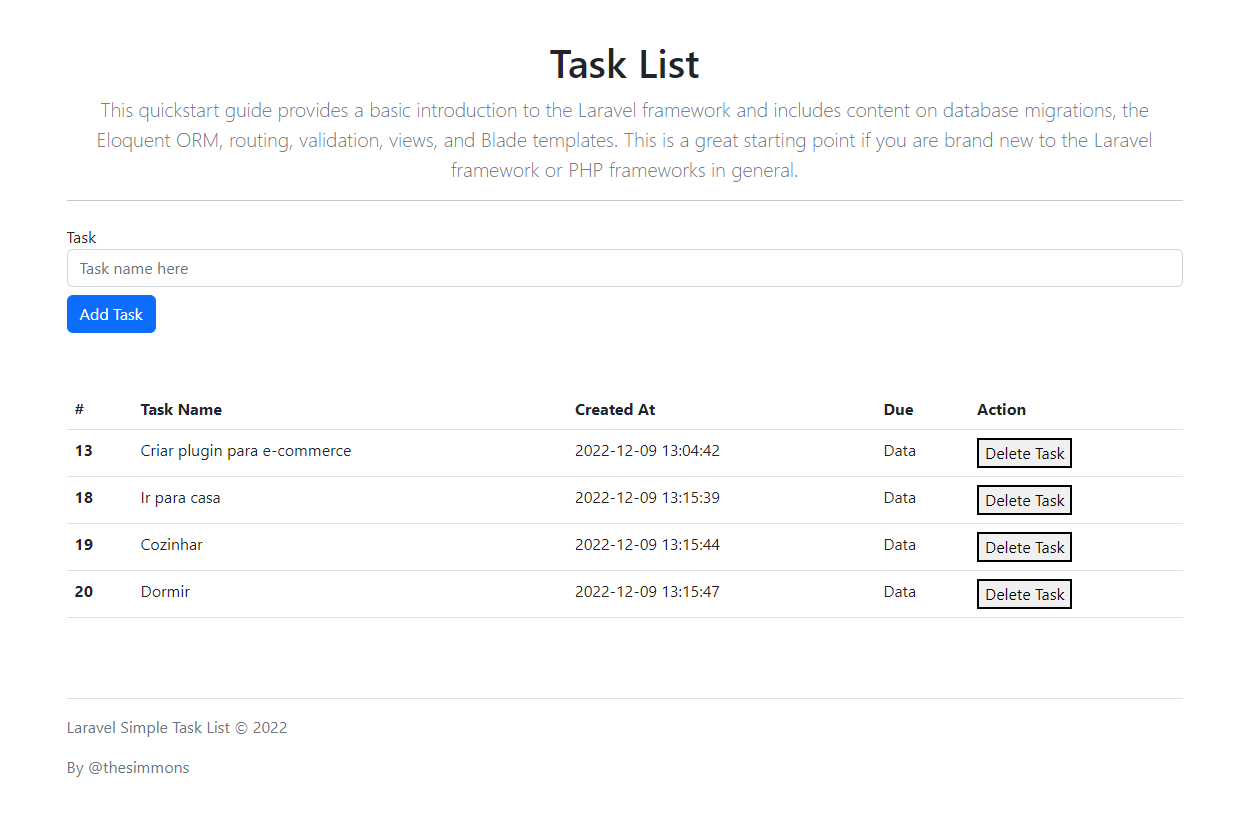
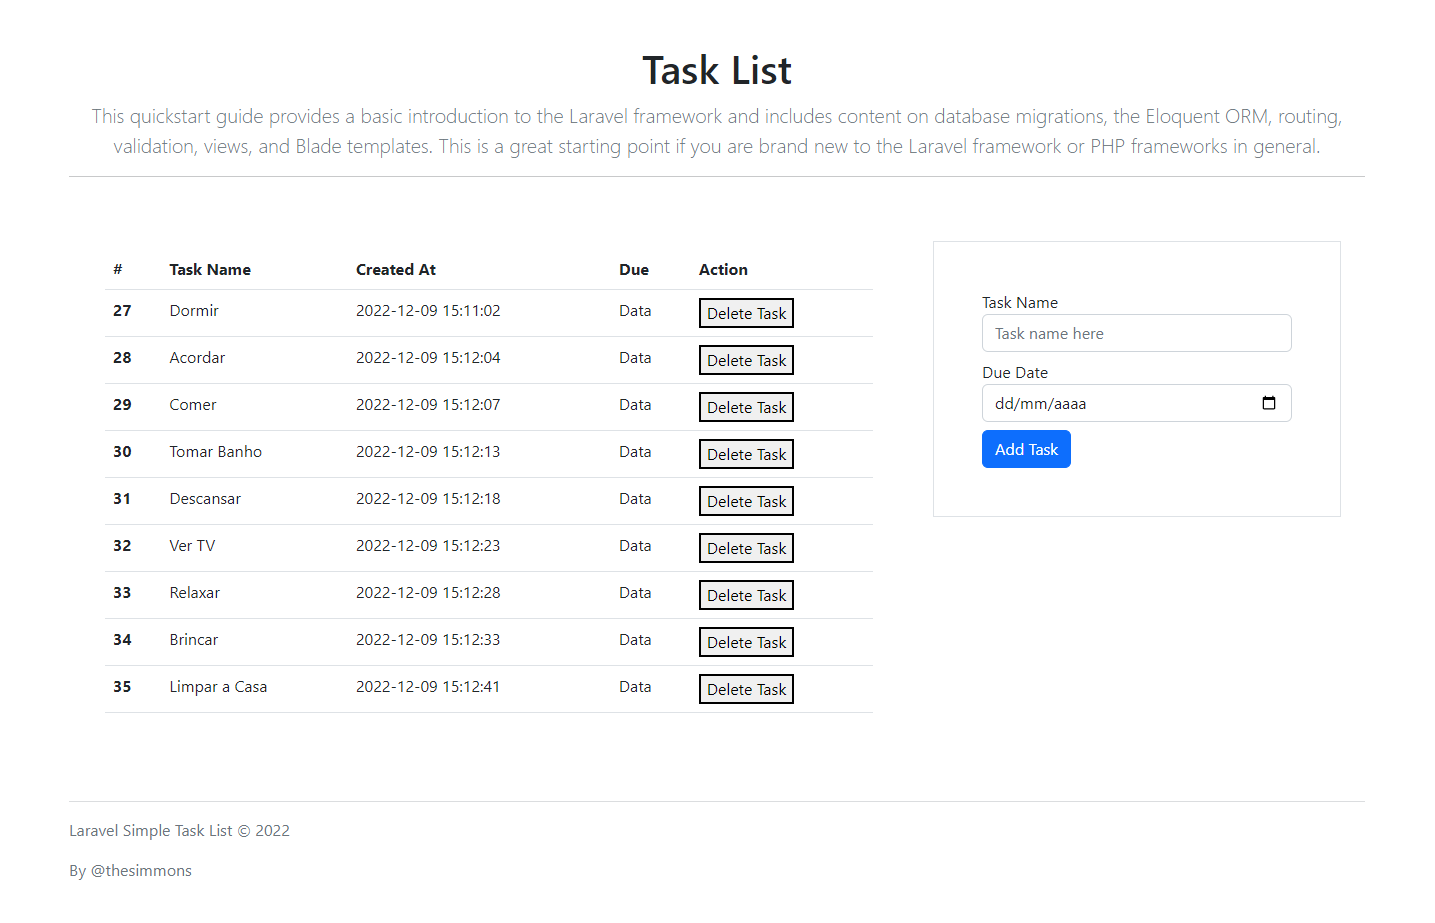
some updates to ui

diff --git a/resources/views/tasks.blade.php b/resources/views/tasks.blade.php
@@ -32,76 +32,92 @@
 
             </div>
 
-            <div class="py-2">
+            <div class="row">
+                <div class="py-2 col-md-8 px-md-5">
 
-                <!-- New Task Form -->
-                <form action="/task" method="POST" class="form-horizontal">
+                    <div class="py-5">
 
-                    {{ csrf_field() }}
+                        <!-- List Tasks -->
+                        @if (count($tasks) > 0)
+                            <table class="table">
+                                <thead>
+                                    <tr>
+                                        <th scope="col">#</th>
+                                        <th scope="col">Task Name</th>
+                                        <th scope="col">Created At</th>
+                                        <th scope="col">Due</th>
+                                        <th scope="col">Action</th>
+                                    </tr>
+                                </thead>
+                                <tbody>
 
-                    <!-- Task Name -->
+                                    @foreach ($tasks as $task)
+                                        <tr>
 
-                    <div class="form-group">
+                                            <th scope="row"> {{ $task->id }} </th>
+                                            <td>{{ $task->name }}</td>
+                                            <td>{{ $task->created_at }}</td>
+                                            <td> Data </td>
+                                            <td>
+                                                <form action="/task/{{ $task->id }}" method="post">
+                                                    {{ csrf_field() }}
+                                                    {{ method_field('DELETE') }}
+                                                    <!-- We can spoof a DELETE request -->
 
-                        <div class="form-group mb-2">
+                                                    <button>Delete Task</button>
+                                                </form>
+                                            </td>
+                                        </tr>
+                                    @endforeach
 
-                            <label for="task" class="sr-only">Task</label>
+                                </tbody>
+                            </table>
+                        @else
+                            <h4>No tasks yet! Create one first...</h4>
+                        @endif
 
-                            <input type="text" name="name" id="task-name" class="form-control"
-                                placeholder="Task name here">
+                    </div>
+                </div>
+
+                <div class="py-5 col-md-4 justify-content-center">
+
+                    <!-- New Task Form -->
+                    <form action="/task" method="POST" class="form-horizontal">
+
+                        {{ csrf_field() }}
+
+                        <!-- Task Name -->
+
+                        <div class="form-group border p-md-5">
+
+                            <div class="form-group mb-2">
+
+                                <label for="task" class="sr-only">Task Name</label>
+
+                                <input type="text" name="name" id="task-name" class="form-control"
+                                    placeholder="Task name here">
+
+                            </div>
+
+                            <div class="form-group mb-2">
+
+                                <label for="due-date" class="sr-only">Due Date</label>
+
+                                <input type="date" name="due-date" id="due-date" class="form-control"
+                                    placeholder="Due Date">
+
+                            </div>
+
+                            <!-- Add Task Button -->
+                            <button type="submit" class="btn btn-primary">
+                                <i class="fa fa-plus"></i> Add Task
+                            </button>
 
                         </div>
 
-                        <!-- Add Task Button -->
-                        <button type="submit" class="btn btn-primary">
-                            <i class="fa fa-plus"></i> Add Task
-                        </button>
+                    </form>
 
-                    </div>
-
-                </form>
-
-            </div>
-
-            <div class="py-5">
-
-                <!-- List Tasks -->
-                @if (count($tasks) > 0)
-                    <table class="table">
-                        <thead>
-                            <tr>
-                                <th scope="col">#</th>
-                                <th scope="col">Task Name</th>
-                                <th scope="col">Created At</th>
-                                <th scope="col">Due</th>
-                                <th scope="col">Action</th>
-                            </tr>
-                        </thead>
-                        <tbody>
-
-                            @foreach ($tasks as $task)
-                                <tr>
-
-                                    <th scope="row"> {{ $task->id }} </th>
-                                    <td>{{ $task->name }}</td>
-                                    <td>{{ $task->created_at }}</td>
-                                    <td> Data </td>
-                                    <td>
-                                        <form action="/task/{{ $task->id }}" method="post">
-                                            {{ csrf_field() }}
-                                            {{ method_field('DELETE') }}
-                                            <!-- We can spoof a DELETE request -->
-
-                                            <button>Delete Task</button>
-                                        </form>
-                                    </td>
-                                </tr>
-                            @endforeach
-
-                        </tbody>
-                    </table>
-                @endif
-
+                </div>
             </div>
 
         </div>
